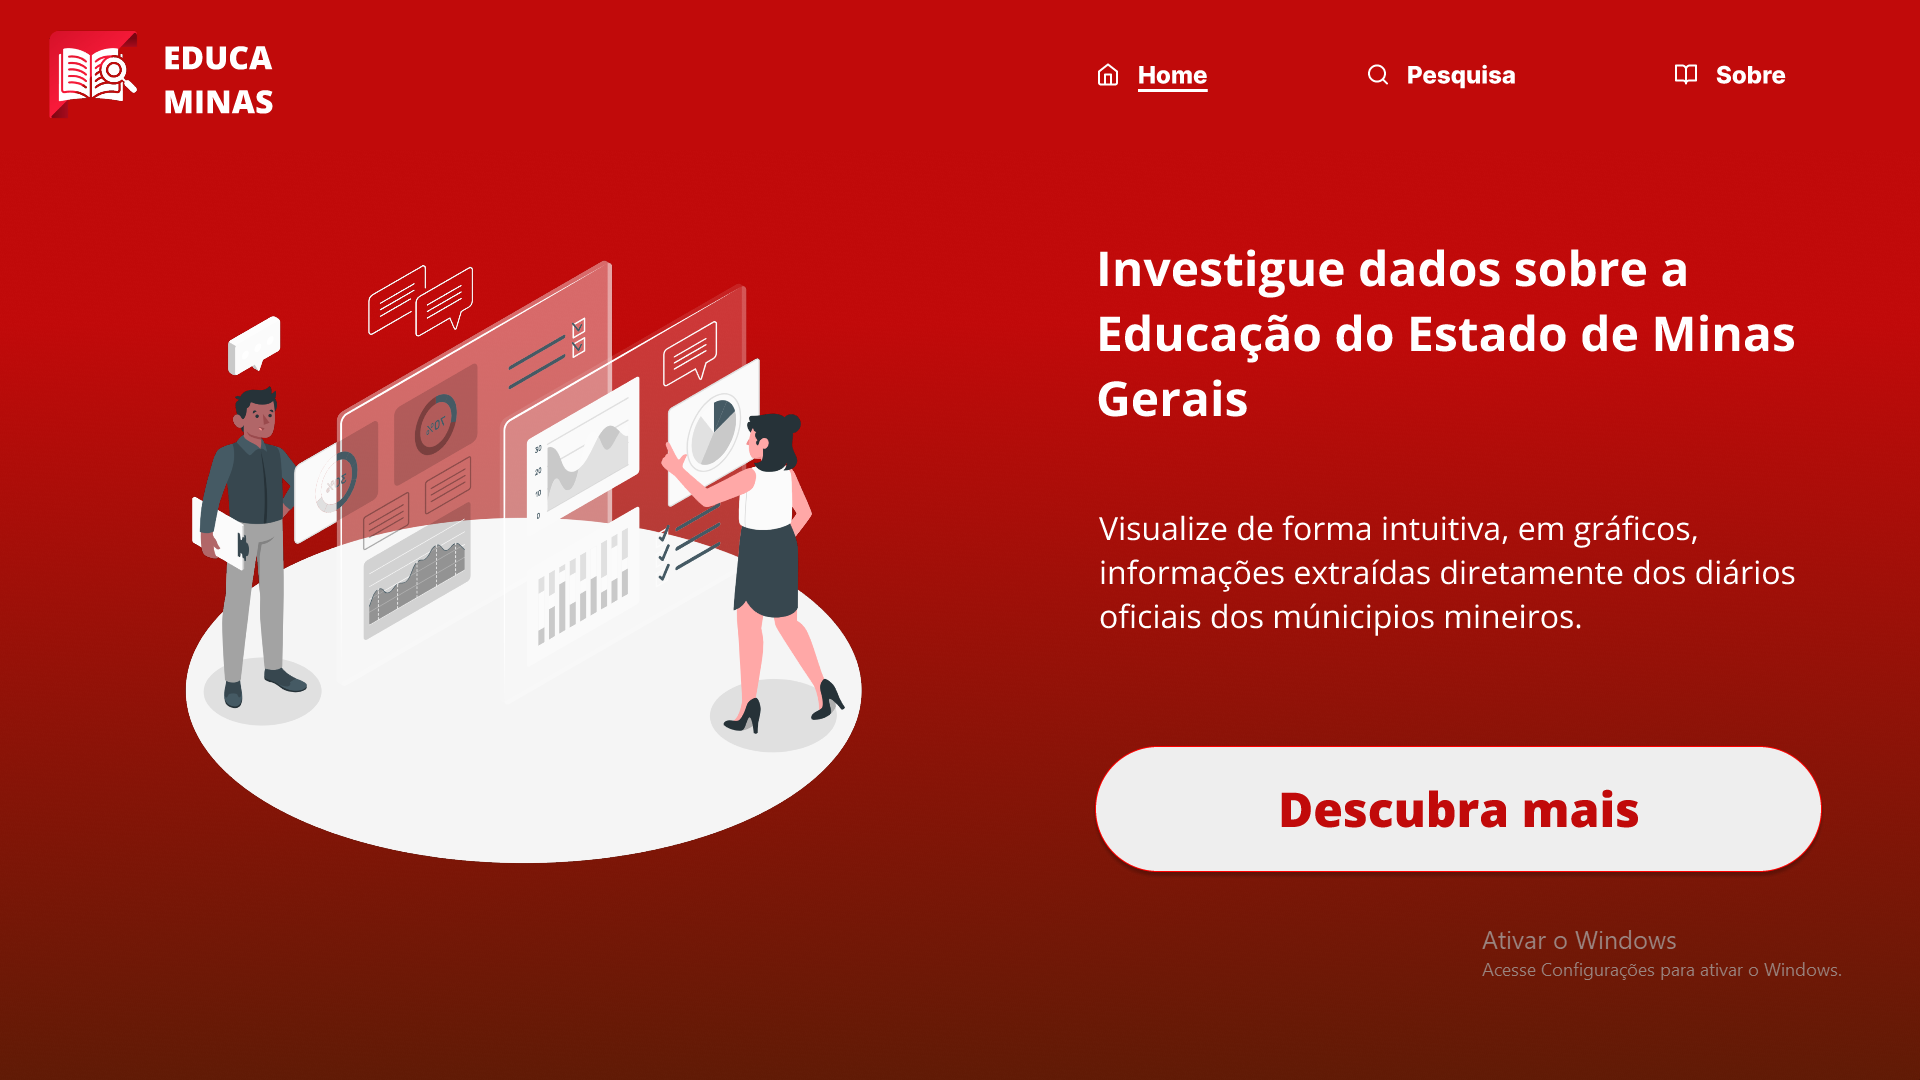
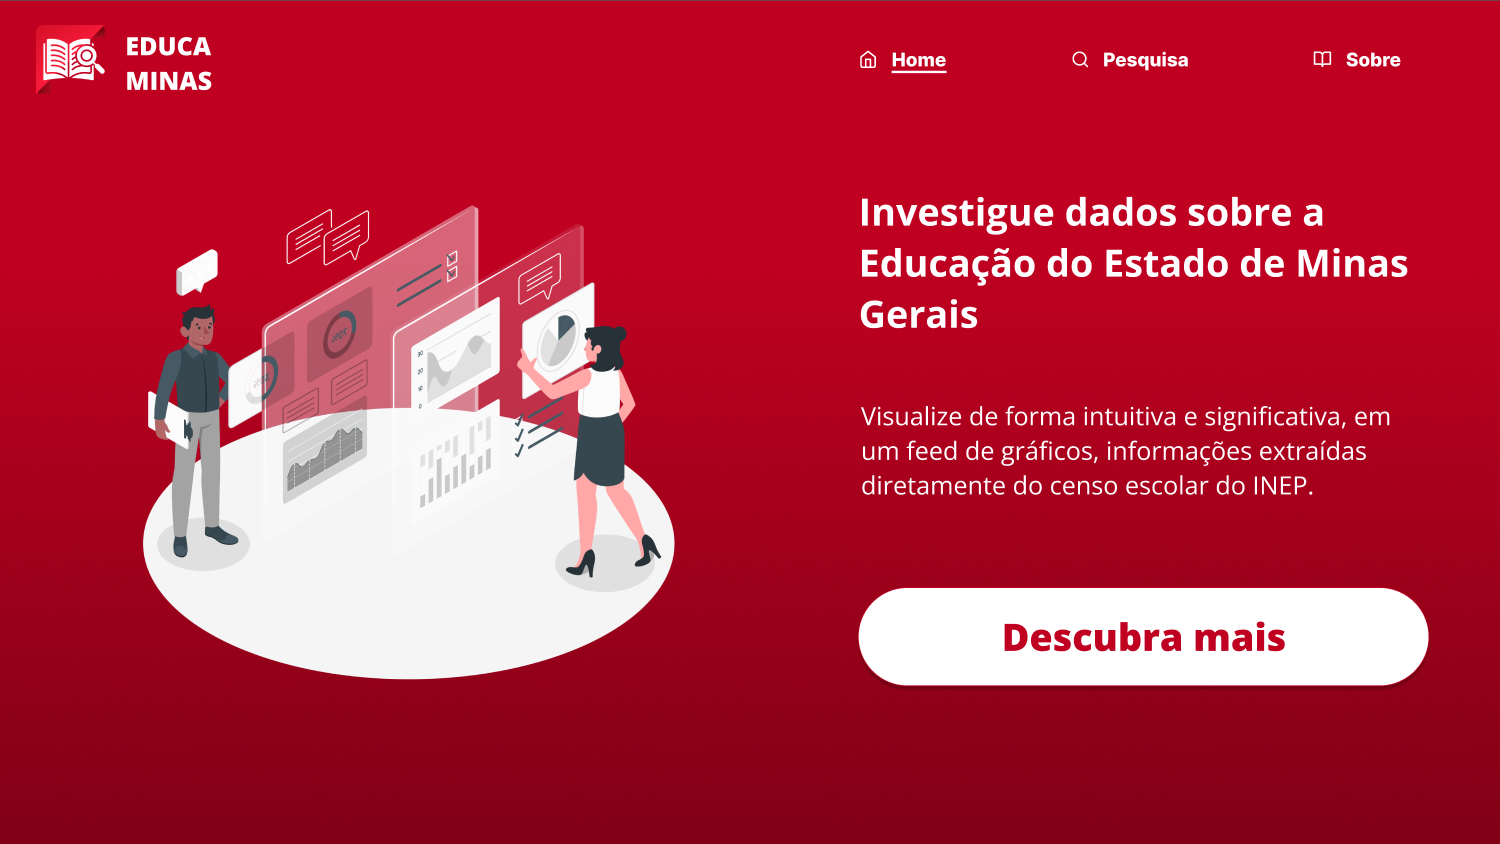
docs(#39): update documents with about, architecture and prototype

diff --git a/docs/docs/project/arquitetura.md b/docs/docs/project/arquitetura.md
@@ -1,0 +1,115 @@
+# Arquitetura
+
+<iframe width="768" height="432" src="https://miro.com/app/embed/uXjVKP3cIXs=/?pres=1&frameId=3458764586923416227&embedId=890096952393" frameborder="0" scrolling="no" allow="fullscreen; clipboard-read; clipboard-write" allowfullscreen></iframe>
+
+---
+
+# Tecnologias
+
+## Coleta de Dados e Atualização de Conteúdos
+
+1. **Beautiful Soup**: Uma biblioteca Python popular para analisar documentos HTML e XML. Ela permite extrair dados de páginas web de forma eficaz.
+2. **Scrapy**: Um framework Python usado para extrair dados de websites de forma rápida e eficiente. Ele é altamente configurável e pode ser usado para scrapers mais complexos.
+3. **Selenium**: Uma ferramenta que permite controlar um navegador web automaticamente. É útil quando o conteúdo de uma página web é carregado dinamicamente por meio de JavaScript.
+4. **Requests**: Uma biblioteca Python simples e elegante para fazer requisições HTTP. Embora não seja específica para scraping, é frequentemente utilizada para baixar o conteúdo HTML das páginas a serem analisadas.
+5. **Puppeteer**: Uma API Node.js que fornece controle sobre o Chrome ou Chromium. É muito útil para scraping de páginas que dependem de JavaScript.
+6. **XPath**: Uma linguagem de consulta usada para extrair dados de documentos XML ou HTML. Pode ser usada em conjunto com outras ferramentas de scraping para selecionar elementos específicos em uma página web.
+7. **Regex (Expressões Regulares)**: Embora seja mais uma técnica do que uma tecnologia específica, as expressões regulares são amplamente usadas para encontrar padrões específicos nos dados extraídos.
+8. **Proxy Services**: Em alguns casos, o uso de proxies é necessário para evitar bloqueios e limitações impostas por sites durante o scraping em grande escala.
+
+## Processamento de dados
+
+1. **Pandas**: realizar várias análises descritivas automáticas nos seus dados, como calcular estatísticas básicas, identificar valores únicos, etc
+2. Numpy
+
+## Segurança
+
+- **Validação de Dados**: Validar os dados obtidos do web scraping para garantir integridade e segurança. Isso pode incluir filtragem de caracteres maliciosos ou inesperados que possam ser inseridos nos dados.
+- **Tratamento de Erros**: Implementar mecanismos para lidar com erros durante o web scraping, como timeout de conexão ou respostas inesperadas dos servidores, de forma a evitar interrupções não planejadas ou vulnerabilidades.
+- **Logs e Monitoramento**: Registrar e monitorar atividades de web scraping e acesso aos dados para identificar potenciais problemas de segurança ou anomalias.
+
+## Escalabilidade
+
+- **Arquitetura Orientada a Microsserviços**: Será adotada uma arquitetura de microsserviços para modularizar sua aplicação e permitir escalabilidade independente de cada componente.
+- **Banco de Dados Relacional:** Otimizar consultas para lidar com grandes volumes de dados. Isso pode incluir bancos de dados relacionais como PostgreSQL.
+- **Cache de Dados**: Estratégias de cache para armazenar dados temporários e reduzir a carga nos servidores durante picos de acesso.
+
+## Backend:
+
+### 1. Framework Web
+
+- **Node.js**: Plataforma de execução de JavaScript no servidor, ideal para aplicações escaláveis e orientadas a eventos.
+    - **Express.js**: Framework web minimalista e flexível para Node.js, utilizado para construir APIs RESTful e gerenciar rotas, middlewares e respostas HTTP.
+
+### 2. Banco de Dados Relacional e ORM
+
+- **PostgreSQL**: Banco de dados relacional robusto e altamente escalável, adequado para armazenamento e consulta eficiente de dados estruturados, como informações educacionais.
+    - **Prisma**: ORM moderno e poderoso para Node.js, que simplifica o acesso ao banco de dados, oferece uma interface de tipo seguro e facilita a escrita de consultas SQL de forma declarativa.
+        - **Prisma Client**: Biblioteca gerada automaticamente pelo Prisma com métodos para interagir com o banco de dados PostgreSQL de forma segura e eficiente.
+
+### 3. Processamento e Análise de Dados
+
+- **Python**: Linguagem de programação popular para análise de dados.
+    - **Pandas**: Biblioteca Python para manipulação e análise de dados estruturados, oferecendo poderosas ferramentas de processamento de dados.
+    - **NumPy**: Biblioteca essencial para computação numérica em Python, útil para operações matemáticas eficientes em grandes conjuntos de dados.
+
+### 4. API e Integrações
+
+- **API RESTful**: Arquitetura para comunicação entre sistemas utilizando HTTP e princípios REST (Representational State Transfer).
+    - **Express.js (Node.js)**: Utilizado para criar endpoints de API RESTful e gerenciar requisições HTTP.
+    - **Axios (Node.js)**: Biblioteca para fazer requisições HTTP de forma fácil e eficiente a partir do Node.js.
+
+### 6. Escalabilidade e Gerenciamento de Servidores
+
+- **Docker**: Plataforma de contêineres que facilita a criação, implantação e execução de aplicativos em ambientes isolados.
+
+### 7. Logging e Monitoramento
+
+- **Winston (Node.js)**: Biblioteca para logging em aplicações Node.js, permitindo o registro de mensagens em diferentes níveis de severidade.
+    - **Prometheus e Grafana**: Ferramentas populares para monitoramento de métricas e visualização de dados operacionais.
+
+## Frontend:
+
+1. **Next.js (v14)**:
+    - Framework React baseado em JavaScript/TypeScript que facilita a criação de aplicativos web, oferecendo renderização do lado do servidor (SSR) e geração de páginas estáticas (SSG).
+    - Suporte a roteamento fácil, pré-renderização, otimização de desempenho e API integrada para construção de aplicativos web modernos.
+2. **React**:
+    - Biblioteca JavaScript/TypeScript para construção de interfaces de usuário reativas e componentizadas.
+    - Utilizado para criar componentes reutilizáveis, gerenciar o estado da aplicação e interagir dinamicamente com os dados.
+3. **TypeScript**:
+    - Superset tipado do JavaScript que fornece tipos estáticos opcionais para aumentar a robustez e a segurança do código.
+    - Ajuda a identificar erros de programação mais cedo no desenvolvimento e oferece maior legibilidade e manutenibilidade.
+
+### Visualização de Dados:
+
+1. **ApexCharts**:
+    - Biblioteca JavaScript para criação de gráficos e visualizações de dados interativas.
+    - Oferece uma variedade de tipos de gráficos (como barras, linhas, pizza) e opções de personalização.
+
+### Interação com o Usuário:
+
+1. **React Hooks**:
+    - Recurso do React que permite utilizar o estado e outras funcionalidades do React em componentes funcionais.
+    - Usado para gerenciar o ciclo de vida dos componentes, estado local, efeitos colaterais e interações do usuário.
+2. **React Router**:
+    - Biblioteca para navegação declarativa e controle de rotas em aplicativos React.
+    - Utilizado para definir e gerenciar a navegação entre diferentes páginas e componentes da aplicação.
+
+### Integração com API REST:
+
+1. **Axios**:
+    - Biblioteca JavaScript/TypeScript para fazer requisições HTTP mais simples e eficientes.
+    - Alternativa popular ao Fetch API, oferecendo funcionalidades adicionais como interceptores, cancelamento de requisições, etc.
+
+
+## Sobre a Extração de Dados
+
+### Web Scraping para Análise de Dados Educacionais
+
+Neste tópico, descreveremos o processo de web scraping para extrair dados do Oracle BI do INEP Data. Esses dados serão utilizados para análise e estudos educacionais, abrangendo informações como extratos de pagamentos de gastos públicos na educação e índices educacionais, evasão, demografia escolar e outras métricas relevantes.
+
+---
+
+### 1. Oracle BI do INEP Data (Índices Educacionais, Demografia Escolar, etc.)
+
+O Oracle BI do INEP Data oferece acesso a diversos dados educacionais importantes, como índices educacionais, evasão, demografia escolar, matrículas, docentes, instituições de ensino, entre outros. Para extrair esses dados, siga os passos a seguir: ### AQUI FICARÁ OS DIAGRAMAS QUE REPRESENTAM A EXTRAÇÃO DOS DADOS

diff --git a/docs/docs/index.md b/docs/docs/index.md
@@ -10,16 +10,20 @@ em um só local dados sobre a Educação do estado de Minas Gerais, utilizando d
 
 Este projeto tem por objetivos: 
 
-- Facilitar a visualização de dados através de gráficos simples;
+- Facilitar a visualização de dados complexos através de gráficos simples;
 - Ressignificar os dados utilizando rankings e comparações entre diferentes indicadores;
 - Possibilitar uma interpretação mais profunda dos dados, voltada para o lado social do ensino mineiro.
 
-Para saber mais sobre as aplicações práticas do projeto, verifique as [Personas](project/personas.md) e os documentos na guia Projeto.
+Para saber mais sobre as aplicações práticas do projeto, verifique as [Personas](project/personas.md) e os demais documentos na guia Projeto.
 
 ---
 
 ## Funcionalidades Previstas
 
+- **Coleta de Dados e Atualização de Conteúdos:** Raspagem de dados do censo escolar do INEP.
+- **Processamento de Dados:** Análises descritivas automáticas nos dados.
+- **Segurança:**  Validação dos dados coletados por scraping e tratamento de erros.
+- **Escalabilidade:** Arquitetura compatível com grandes fluxos de dados e expansão de código.
 - **Visualização de Dados:** Interface em feed para a visualização gráfica dos dados coletados.
 - **Pesquisa Avançada:** Possibilidade para os usuários realizarem pesquisas profundas, filtrando por período de tempo, atributos de ensino e atributos pessoais.
 
@@ -29,14 +33,4 @@ Para saber mais sobre as aplicações práticas do projeto, verifique as [Person
 
 Este projeto possui dois repositórios, definindo e separando explicitamente o [frontend](https://github.com/unb-mds/2024-1-EducaMinas-frontend) e o [backend](https://github.com/unb-mds/2024-1-EducaMinas-backend).
 
-### Frontend
-
-- **Linguagem**: Typescript.
-- **Framework**: Next.js.
-- **Demais dependências**: Tailwind, Axios, ApexCharts.
-
-### Backend
-
-- **Linguagem**: Typescript, Python.
-- **Framework**: Express.
-- **Demais dependências**: ...
+Para visualizar a escolha das tecnologias: [Arquitetura](../docs/project/arquitetura.md)

diff --git a/docs/docs/about.md b/docs/docs/about.md
@@ -1,4 +1,29 @@
-#Equipe
+# Sobre
+
+## Motivação
+
+O estado de Minas Gerais é o maior em quantidade de municípios no Brasil, e um dos principais centros econômicos nacionais. **Entretanto, verificou-se a dificuldade em encontrar e visualizar dados importantes, como os índices educacionais, que revelam diversos fatores sobre a população mineira.**
+
+Desse modo, este projeto idealiza reunir em um só lugar, índices educacionais de Minas Gerais e seus municípios, fornecendo comparações, rankings e tendências, com transparência, credibilidade e acessibilidade.
+
+O projeto nasceu em 2024, objetivando desenvolver novas percepções sobre a educação mineira, ressignificando os dados coletados do censo escolar.
+
+## Sobre os integrantes
+
+**Johan:** estudante e entusiasta de DevOps e Computação em Nuvem.
+
+**Daniel:** estudante e entusiasta de tecnologias voltados para o lado do servidor.
+
+**Carlos:** estudante de Engenharia de Software e apaixonado por programação.
+
+**João Pedro:** estudante e entusiasta de Engenharia de Software.
+
+**João Lucas:** estudante e entusiasta de Engenharia de Software.
+
+**Rafael:** estudante e entusiasta do universo JavaScript e Programação Competitiva.
+
+
+---
 
 <div style="display: flex; flex-direction: column; align-items: center; gap: 25px;">
     <div style="display: flex; align-items: end; justify-content: center; gap: 50px;">

diff --git a/docs/docs/project/prototipo.md b/docs/docs/project/prototipo.md
@@ -1,0 +1,31 @@
+# Protótipo
+
+## Paleta de Cores
+
+Para definir a paleta de cores do projeto, buscamos inspiração na bandeira mineira, em conjunto com o azul que é frequentemente associado à educação. 
+
+<script src="https://coolors.co/palette-widget/widget.js"></script>
+<script data-id="07490564946533476">new CoolorsPaletteWidget("07490564946533476", ["c10a0a","ff204e","ffffff","40679e"]); </script>
+
+## Telas
+
+### Início
+
+A tela inicial foi pensada para introduzir o usuário na plataforma, e convidá-lo a saber mais sobre o projeto
+
+![Home](../assets/home.png)
+
+### Pesquisa
+
+A tela de pesquisa foi pensada como um feed dividido em tópicos e subtópicos, Desigualdade Racial(Tópico), Matrícula por rede de ensino(Subtópico) e Percentual de reprovação(Subtópico), por exemplo.
+
+Serão desenvolvidas mais telas com mais tópicos, introduzindo diferentes abordagens sociais, como raça e gênero, instigando reflexões profundas de forma intuitiva, utilizando-se de rankings, por exemplo.
+
+![Home](../assets/search1.png)
+![Home](../assets/search2.png)
+
+### Sobre
+
+A página sobre objetiva informar o usuário sobre como contribuir, como o projeto foi desenvolvido, suas motivações e desenvolvedores.
+
+![Home](../assets/about.png)

diff --git a/docs/docs/project/storymap.md b/docs/docs/project/storymap.md
@@ -3,6 +3,6 @@
 
 Um story map é uma técnica de organização de requisitos de software, representada por um diagrama de cartões, que conta a história da interação do usuário com o produto. Ele agrupa histórias do usuário em "features" e essas em "épicos", detalhando as tarefas que o usuário realiza para alcançar seus objetivos.
 
-Veja o atual Soty Map do projeto:
+Veja o atual Story Map do projeto:
 
 <iframe width="768" height="432" src="https://miro.com/app/live-embed/uXjVKWbzayE=/?moveToViewport=-10946,12609,6389,3714&embedId=625666244266" frameborder="0" scrolling="no" allow="fullscreen; clipboard-read; clipboard-write" allowfullscreen></iframe>
